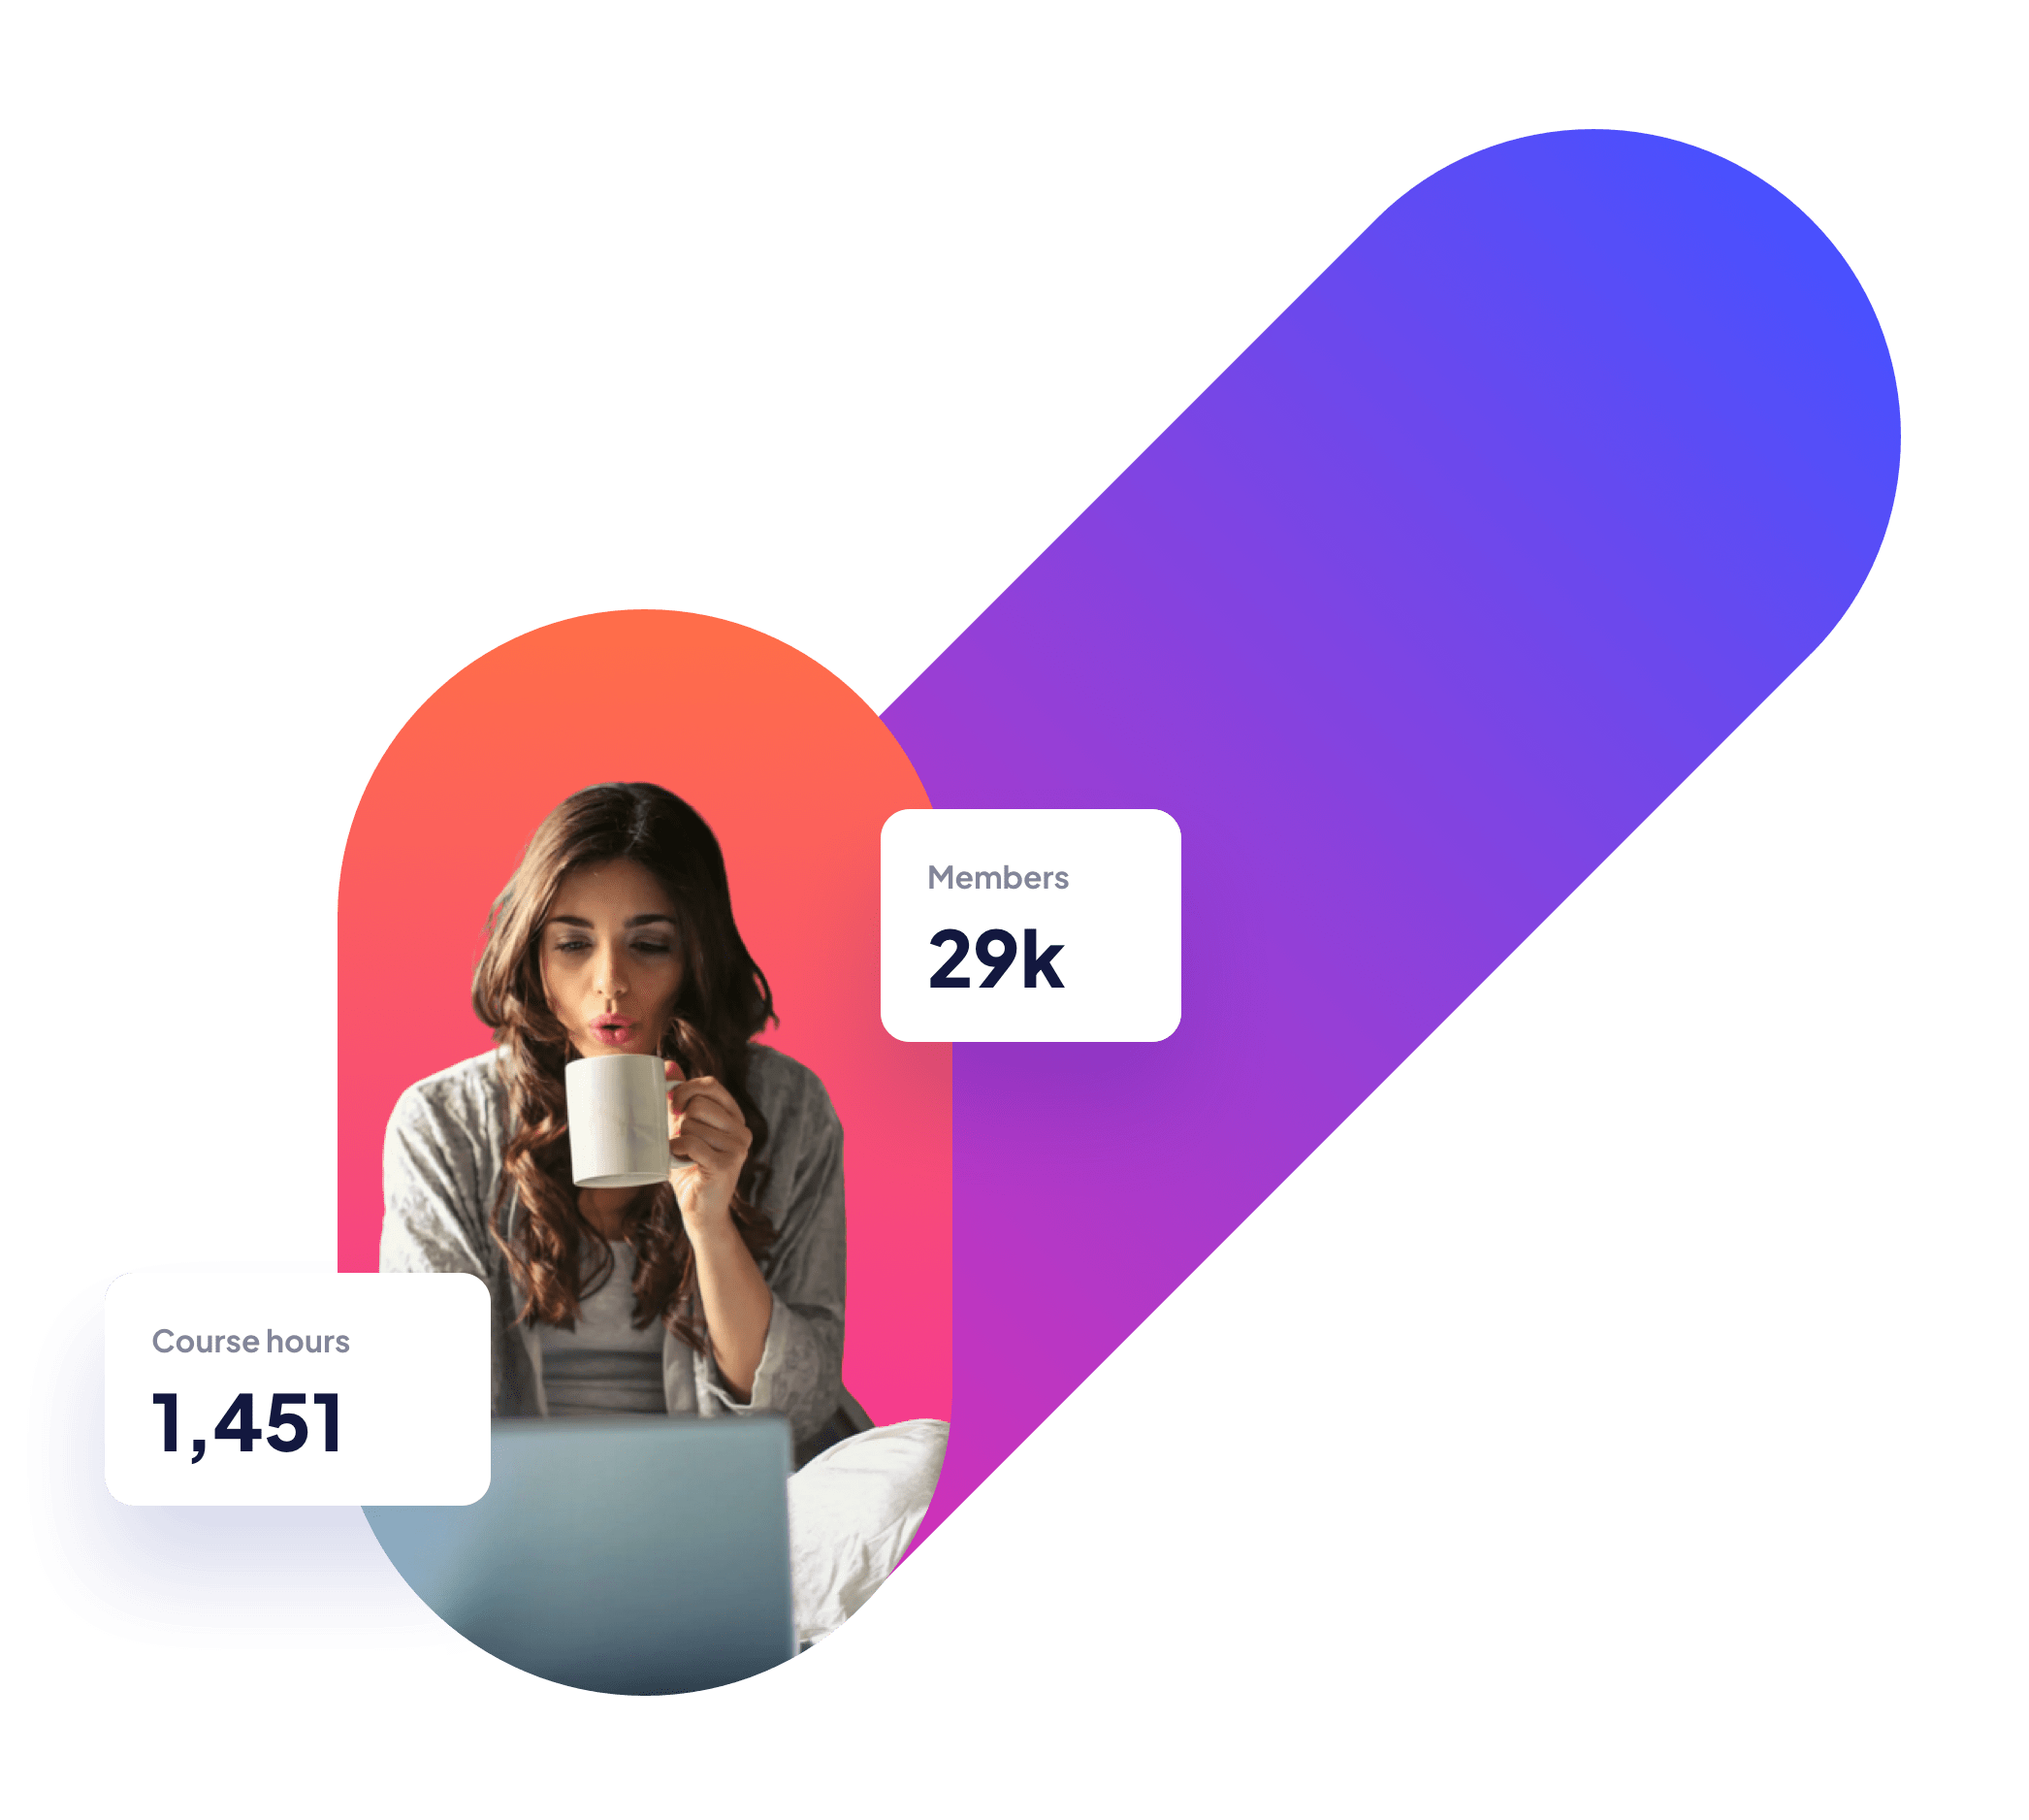
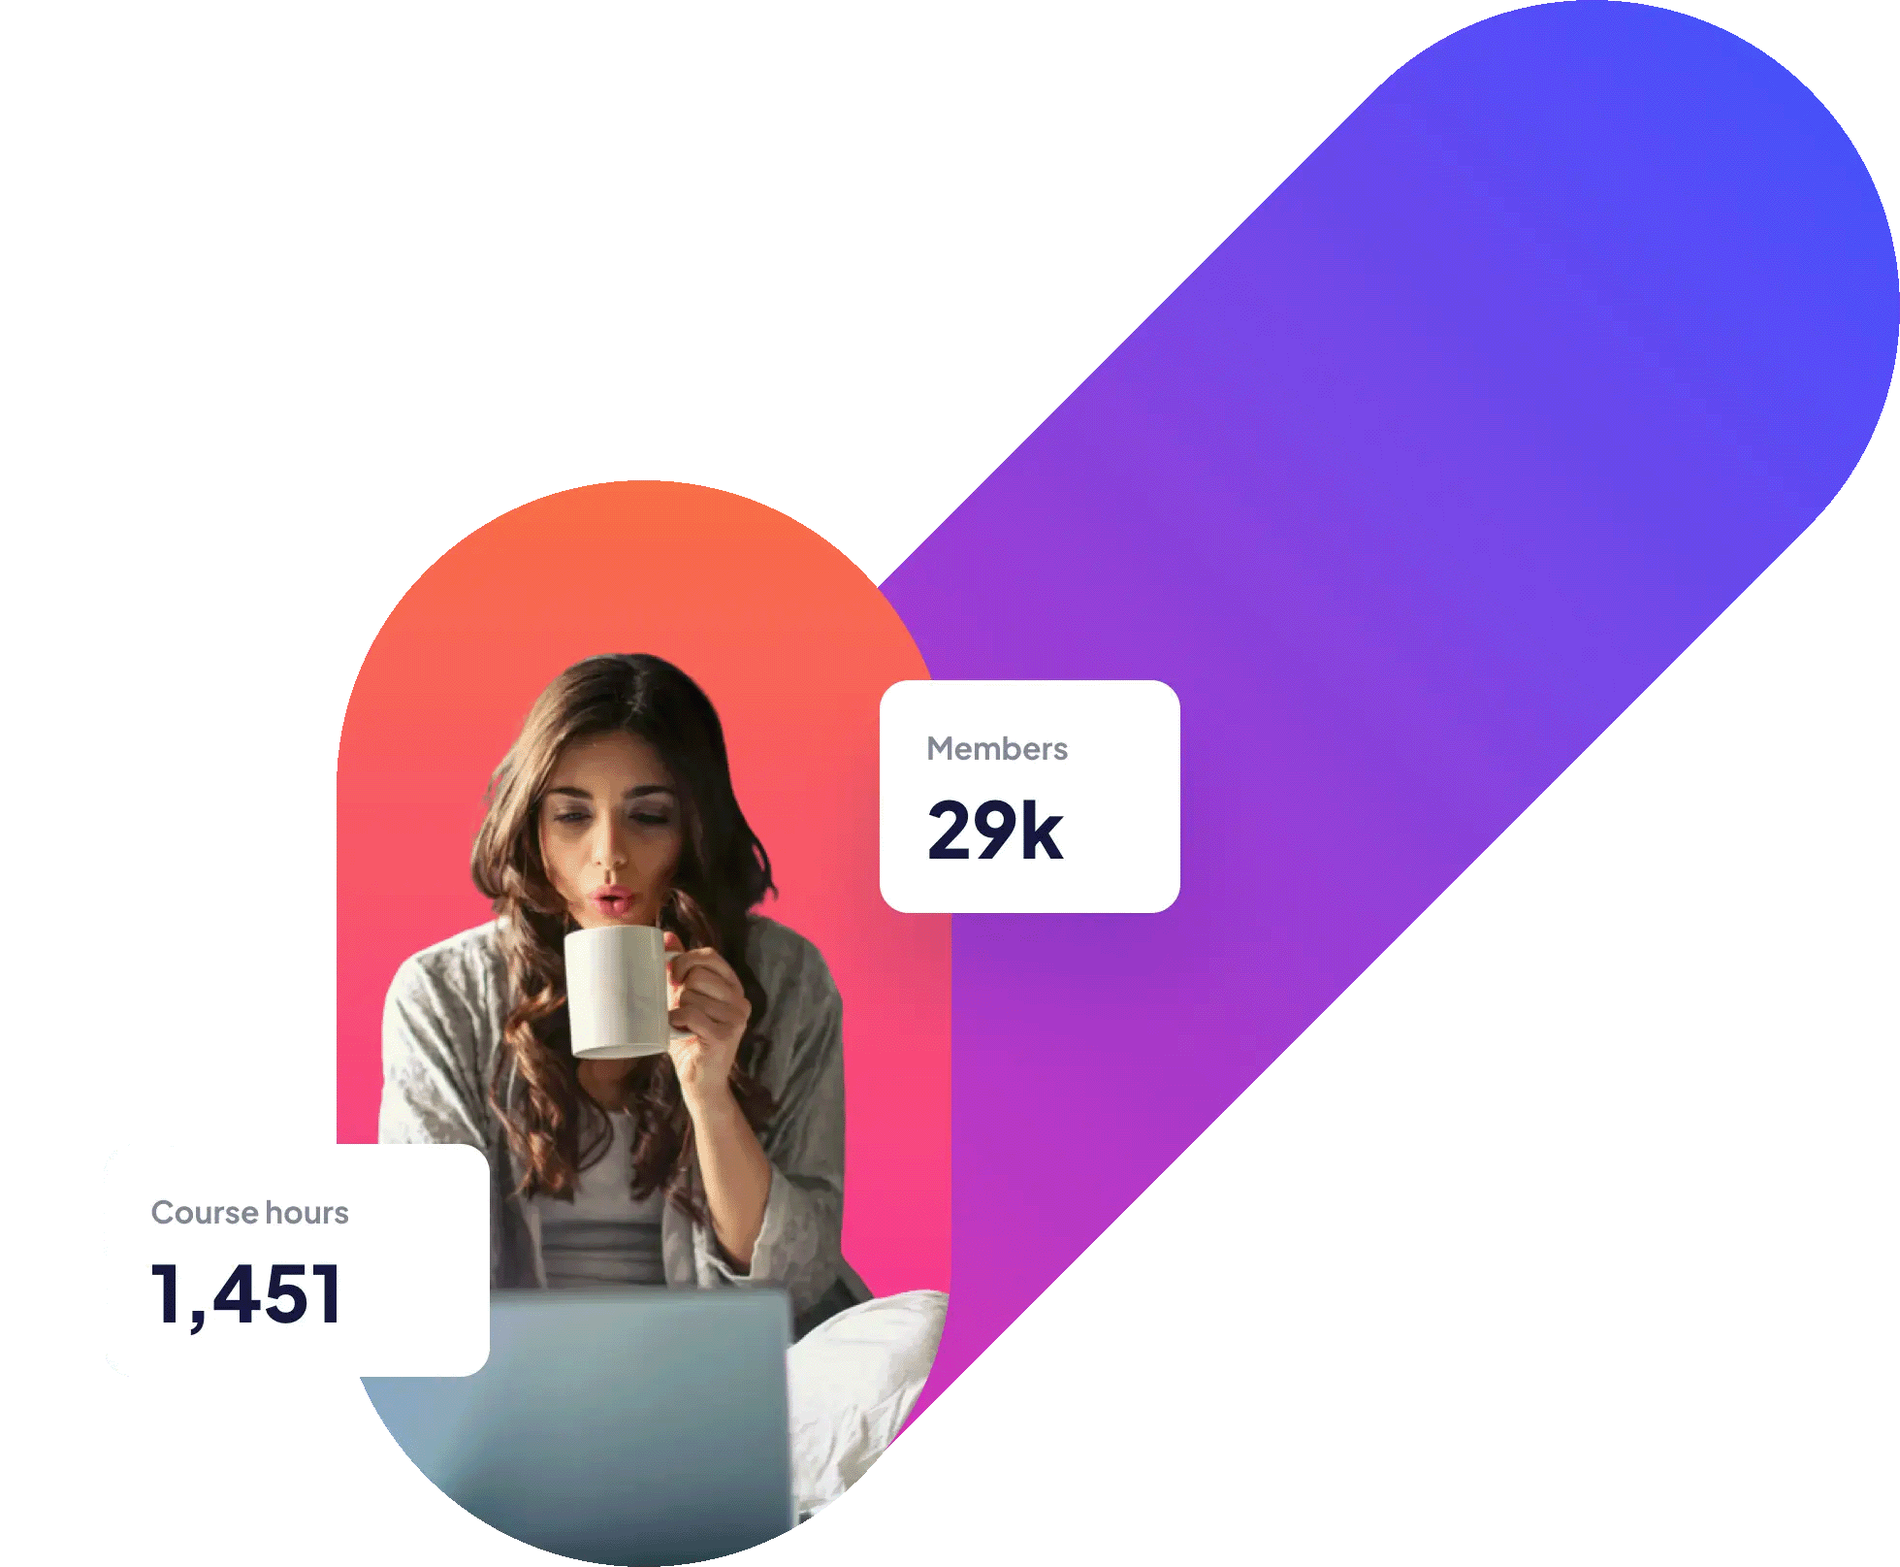
hero image responsive

Changed region(s): [[0.0623, 0.0, 1.0, 1.0], [0.5294, 0.2477, 0.5605, 0.2786], [0.1868, 0.4025, 0.218, 0.4334]]

diff --git a/index.css b/index.css
@@ -7,7 +7,7 @@
   --white: #fff;
   --gradient-1: linear-gradient(#ff6f48, #f02aa6);
   --gradient-2: linear-gradient(#4851ff, #f02aa6);
-  --heading-xl: 5.6rem;
+  --heading-xl: 3.889vw;
   --heading-lg: 4rem;
   --heading-md: 3.2rem;
   --heading-sm: 2.4rem;
@@ -111,7 +111,17 @@ html {
   font-weight: bold;
 }
 
+.hero_img img {
+  position: relative;
+  width: 100%;
+  top: 40rem;
+}
+
 @media screen and (min-width: 768px) {
+  .hero {
+    overflow-x: clip;
+  }
+
   .hero_header-logo {
     top: 3.1rem;
     left: 3.9rem;
@@ -136,10 +146,17 @@ html {
   .hero_text p {
     margin: 2.5rem 0;
   }
+
+  .hero_img img {
+    width: 64rem;
+    left: 37rem;
+    top: -9rem;
+  }
 }
 
 @media screen and (min-width: 1024px) {
   .hero_header-logo {
+    position: absolute;
     top: 2.4rem;
     left: 11.458vw;
   }
@@ -150,7 +167,7 @@ html {
   }
 
   .hero_text {
-    width: 45.7rem;
+    width: 31.736vw;
     height: 25.9rem;
     top: 25.2rem;
     left: 11.458vw;
@@ -161,8 +178,38 @@ html {
   }
 
   .hero_text p {
-    font-size: 1.8rem;
+    font-size: 1.25vw;
     margin-top: 2.9rem;
     margin-bottom: 4rem;
+  }
+
+  .hero_header-button {
+    width: 11.597vw;
+  }
+
+  .hero_header-button a {
+    font-size: 1.25vw;
+  }
+
+  .hero_text button {
+    width: 11.597vw;
+  }
+
+  .hero_text button a {
+    font-size: 1.25vw;
+  }
+
+  .hero_img img {
+    width: 75vw;
+    top: -2.93vh;
+    left: 47vw;
+  }
+}
+
+@media screen and (min-width: 1440px) {
+  .hero_img img {
+    width: 60vw;
+    top: -5rem;
+    left: 55vw;
   }
 }

diff --git a/index.html b/index.html
@@ -43,6 +43,24 @@
           <a href="#">Get Started</a>
         </button>
       </article>
+      <picture class="hero_img">
+        <source
+          media="(max-width: 425px)"
+          srcset="starter-code/assets/image-hero-mobile@2x.png"
+        />
+        <source
+          media="(max-width: 768px)"
+          srcset="starter-code/assets/image-hero-tablet@2x.png"
+        />
+        <source
+          media="(min-width: 1024px)"
+          srcset="starter-code/assets/image-hero-desktop@2x.png"
+        />
+        <img
+          src="./starter-code/assets/image-hero-desktop@2x.png"
+          alt="woman drinking coffee and learning from her laptop"
+        />
+      </picture>
     </section>
     <!-- Get Started Check out our most popular courses! Animation Learn the latest
     animation techniques to create stunning motion design and captivate your
